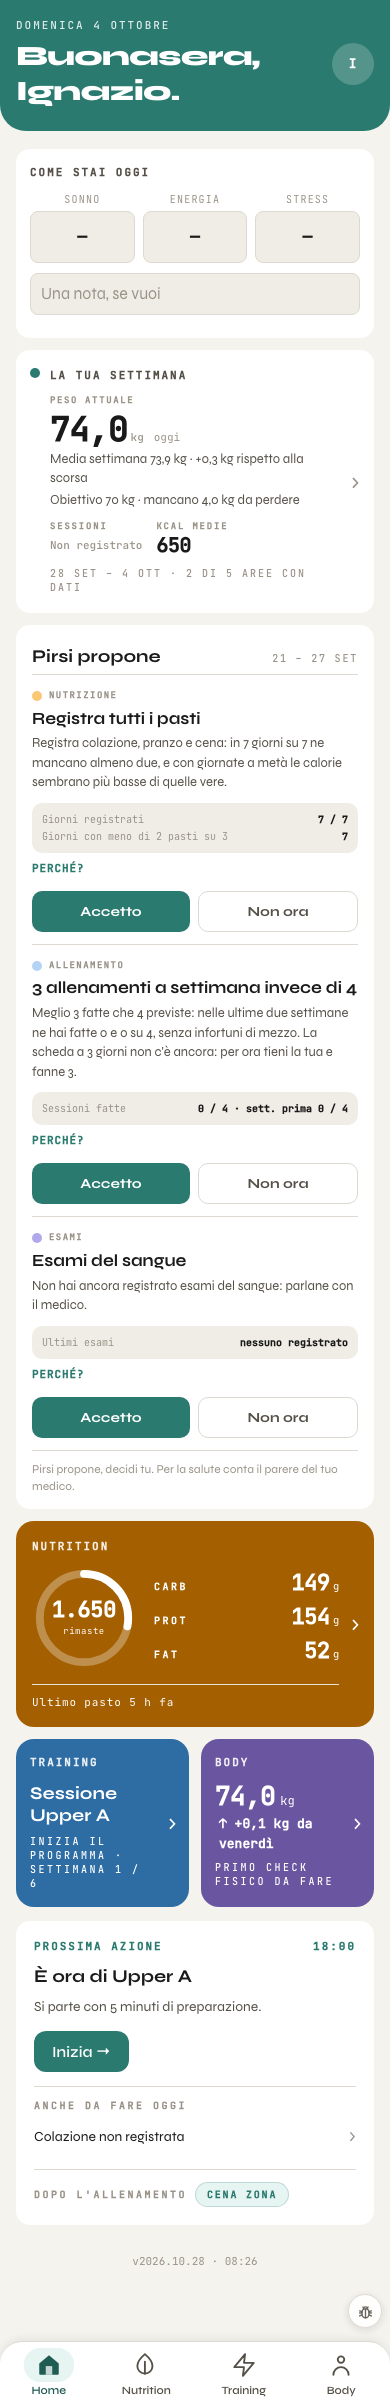
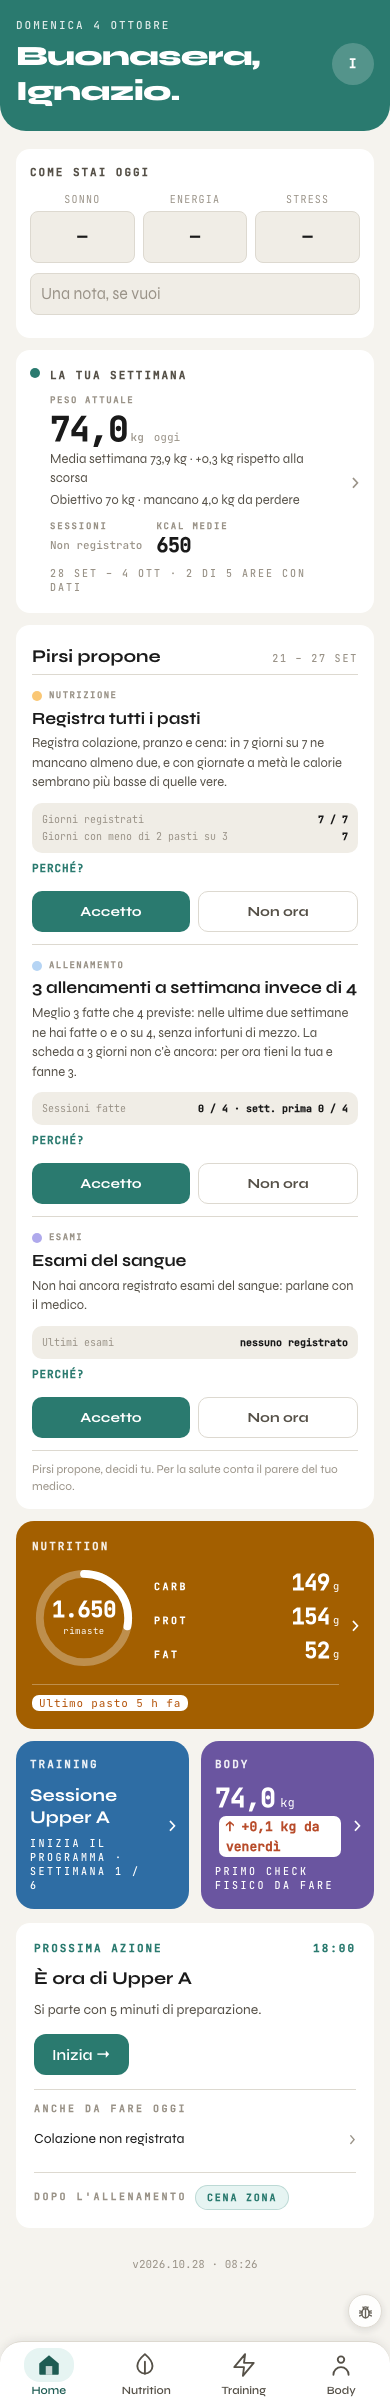
fix(stile): veste A, i colori degli stati restano leggibili sui riquadri pieni; ?v5 esce dall'indirizzo (+70 -25, 7 file)
Dalla revisione della Regia sulla veste accesa:
1-2. Via la regola «* bianco !important» sui riquadri Nutrition/Training/Body:
bianchi solo i testi di base e i numeri neutri (var(--t1), var(--t3) scritti
nell'HTML); gli stati (oltre l'obiettivo OVER_COLOR, peso verso --acc o lontano
--err, stato della seduta, «Ultimo pasto N h fa») tengono il loro colore in una
pastiglia bianca (da 5,02:1 a 5,12:1); «+ pesata di oggi» e «Registra» restano
come sono; l'anello oltre l'obiettivo diventa tratteggiato.
3. Lo script in testa toglie v5 dall'indirizzo con history.replaceState, gli altri
parametri e il # restano: una ricarica non riaccende la veste spenta.
4. STILE.md e il commento in stile.css: la tavola del Passo 0 sta sul ramo
claude/giro1-seduta-disegno.

prova_veste: 32/32, con i casi oltre l'obiettivo, peso su e giu', pesata mancante,
pasto suggerito, contrasto di ogni testo dei riquadri letto in Chrome (>= 4,5:1).
prova_stile in Chrome, veste spenta: 14 schermate uguali al pixel a main (l'unico
KO, 32-body-check sotto i 200 caratteri, c'e' anche su main). Verdi:
prova_pagina_divisa, prova_home_030, prova_avvio_home, prova_ordine_caricamento,
prova_browser, prova_segnala.

diff --git a/tools/banco/prova_veste.js b/tools/banco/prova_veste.js
@@ -22,13 +22,17 @@ const base = { uso:'principale', luogo:'casa', attrezzo:'elastico', livello:'int
 const catalogo = [['EX001','Panca elastico','spinta orizzontale'], ['EX020','Rematore elastico','tirata orizzontale'], ['EX040','Squat elastico','dominante ginocchia'],
   ['EX050','Stacco rumeno elastico','dominante anca']].map(([codice, nome, pattern]) => ({ ...base, codice, nome, pattern, gruppo_target:'' }));
 const ex = (codice) => ({ codice, name: catalogo.find(c => c.codice === codice).nome, sets:3, reps:'8-12' });
-function tabelle(){
+// scenario: 'base' (pesata oggi, dentro l'obiettivo) · 'su' (oltre l'obiettivo, peso che sale via dall'obiettivo, niente pesata oggi)
+// · 'giu' (peso che scende verso l'obiettivo, niente pesata oggi)
+function tabelle(scenario = 'base'){
   const meals = [], pesi = [];
   for(let d = 0; d < 14; d++){
     const k = add(OGGI, -d);
-    meals.push({ id:'m' + d, user_id:U, date:k, slot:'pranzo', time:'13:00', kcal:650, protein:42, carbs:70, fat:20, description:'Riso e pollo', notes:'' });
-    if(d % 2 === 0) pesi.push({ id:'p' + d, user_id:U, date:k, weight_kg: +(74 - d * 0.05).toFixed(2), created_at:k + 'T07:30:00Z' });
+    const tanto = scenario === 'su' && d === 0;
+    meals.push({ id:'m' + d, user_id:U, date:k, slot:'pranzo', time:'13:00', kcal: tanto ? 3100 : 650, protein: tanto ? 240 : 42, carbs: tanto ? 330 : 70, fat: tanto ? 110 : 20, description:'Riso e pollo', notes:'' });
+    if(scenario === 'base' && d % 2 === 0) pesi.push({ id:'p' + d, user_id:U, date:k, weight_kg: +(74 - d * 0.05).toFixed(2), created_at:k + 'T07:30:00Z' });
   }
+  if(scenario !== 'base') [[1, scenario === 'su' ? 74.6 : 73.4], [3, 74.0]].forEach(([d, kg]) => pesi.push({ id:'p' + d, user_id:U, date:add(OGGI, -d), weight_kg:kg, created_at:add(OGGI, -d) + 'T07:30:00Z' }));
   return {
     profiles:[{ id:U, first_name:'Ignazio', m2_skipped:true, sesso:'M', eta:45, altezza_cm:178, weight_kg:74, goal_weight_kg:70, obiettivo:'ricomposizione',
       target_kcal:2300, target_protein:170, target_carbs:220, target_fat:75, giorni_allenamento:4, tipo_allenamento:'casa', attrezzatura:['elastico'],
@@ -42,7 +46,7 @@ function tabelle(){
   };
 }
 async function apri(opts){
-  const t = tabelle(); t.__sessione = { user:{ id:U, email:'ignazio.f@me.com' } };
+  const t = tabelle(opts.scenario); t.__sessione = { user:{ id:U, email:'ignazio.f@me.com' } };
   const b = boot(t, { now:OGGI + 'T18:00:00', ...opts, locale:{ zt_privacy_ok:'x', zt_installa_visto:'1', ...(opts.locale || {}) } });
   await b.avviato;
   for(let i = 0; i < 500 && !b.win.document.getElementById('app').classList.contains('visible'); i++) await attendi(10);
@@ -78,8 +82,9 @@ function fotografa(win){
   { const b = await apri({ locale:{ zt_v5:'1' } });
     atteso('con la chiave sul telefono parte accesa', classe(b), true);
     b.win.close(); }
-  { const b = await apri({ url:'https://ignaziof321621.github.io/benessere-forma/zona-tracker.html?v5=1' });
+  { const b = await apri({ url:'https://ignaziof321621.github.io/benessere-forma/zona-tracker.html?test=0&v5=1&da=link#sezione' });
     atteso('?v5=1 la accende e la ricorda', [classe(b), chiave(b)], [true, '1']);
+    atteso('letto, ?v5 esce dall\'indirizzo e gli altri parametri e il # restano', [b.win.location.search, b.win.location.hash], ['?test=0&da=link', '#sezione']);
     b.win.close(); }
   { const b = await apri({ url:'https://ignaziof321621.github.io/benessere-forma/zona-tracker.html?v5=0', locale:{ zt_v5:'1' } });
     atteso('?v5=0 la spegne e toglie la chiave', [classe(b), chiave(b)], [false, null]);
@@ -90,34 +95,52 @@ function fotografa(win){
   if(!fs.existsSync(CHROME)){ atteso('Chrome trovato', false, true); console.log(`\n${ko} KO`); process.exit(1); }
   const radice = fs.mkdtempSync(path.join(os.tmpdir(), 'zt-veste-'));
   fs.copyFileSync(path.join(REPO, 'app', 'stile.css'), path.join(radice, 'stile.css'));
-  const b = await apri({});
-  const html = fotografa(b.win);
-  b.win.close();
+  // la pagina disegnata dal banco; per 'su' e 'giu' anche il pasto suggerito dal piano («Registra») e «Ultimo pasto N h fa»:
+  // la Home li prende dal Piano e dall'ora, qui si danno già pronti (cambia solo cosa c'è da disegnare, non come)
+  const pagine = {};
+  for(const sc of ['base', 'su', 'giu']){
+    const b = await apri({ scenario:sc });
+    if(sc !== 'base'){ b.win._nutrProssimoDalPiano = () => ({ slot:'cena', piatto:'Salmone e patate', descrizione:'Salmone e patate' }); b.win._nutrOreDallUltimo = () => 5; b.win.renderHomeV2(); }
+    pagine[sc] = fotografa(b.win);
+    b.win.close();
+  }
+  // contrasto WCAG di ogni testo dei tre riquadri pieni, col fondo vero (il primo antenato con un fondo non trasparente)
   const MISURA = `<script>addEventListener('load',()=>setTimeout(()=>{const g=(s,p)=>{const e=document.querySelector(s);return e?getComputedStyle(e)[p]:null;};
-const campi=[...document.querySelectorAll('input:not([type=checkbox]):not([type=radio]):not([type=range]):not([type=file]):not([type=hidden]),select,textarea')].map(e=>parseFloat(getComputedStyle(e).fontSize));
+const rgb=c=>{const m=c.match(/rgba?\\(([^)]+)\\)/);if(!m)return null;const v=m[1].split(',').map(Number);return {r:v[0],g:v[1],b:v[2],a:v.length>3?v[3]:1};};
+const lum=c=>{const f=x=>{x/=255;return x<=0.03928?x/12.92:Math.pow((x+0.055)/1.055,2.4);};return .2126*f(c.r)+.7152*f(c.g)+.0722*f(c.b);};
+const fondo=e=>{let bg={r:255,g:255,b:255,a:0},x=e;while(x){const c=rgb(getComputedStyle(x).backgroundColor);if(c&&c.a>0.5)return c;x=x.parentElement;}return {r:245,g:243,b:238,a:1};};
+const contrasto=e=>{const a=lum(rgb(getComputedStyle(e).color)),b=lum(fondo(e));return (Math.max(a,b)+.05)/(Math.min(a,b)+.05);};
+const W='.home-v2-card[onclick*="showPage(\\'oggi\\')"],#home-card-training,.home-v2-card[onclick*="showPage(\\'body\\')"]';
+const testi=[...document.querySelectorAll(W)].flatMap(c=>[...c.querySelectorAll('*')]).filter(e=>[...e.childNodes].some(n=>n.nodeType===3&&n.textContent.trim())&&e.offsetParent!==null);
+const tutti=testi.map(e=>({t:e.textContent.trim().slice(0,30),c:Math.round(contrasto(e)*100)/100}));
+const di=s=>{const e=document.querySelector(s);return e&&e.offsetParent!==null?Math.round(contrasto(e)*100)/100:null;};
 const r={barra:g('#bottom-nav','display'),nav:g('#nav','display'),testa:g('.home-v2-header','backgroundColor'),nutr:g('.home-v2-card[onclick*="showPage(\\'oggi\\')"]','backgroundColor'),
 train:g('#home-card-training','backgroundColor'),body:g('.home-v2-card[onclick*="showPage(\\'body\\')"]','backgroundColor'),
 voce:g('#bottom-nav .nav-btn.active','color'),spenta:g('#bottom-nav .nav-btn:not(.active)','color'),insetto:g('#segnala','bottom'),
-campi:campi.length,sotto16:campi.filter(x=>x<16).length,trainW:(document.querySelector('#home-card-training')||{}).offsetWidth||0,riga:(document.querySelector('.home-v2-wrap')||{}).offsetWidth||0,largo:document.documentElement.scrollWidth,finestra:window.innerWidth};
+campi:[...document.querySelectorAll('input:not([type=checkbox]):not([type=radio]):not([type=range]):not([type=file]):not([type=hidden]),select,textarea')].map(e=>parseFloat(getComputedStyle(e).fontSize)).filter(x=>x<16).length,
+trainW:(document.querySelector('#home-card-training')||{}).offsetWidth||0,riga:(document.querySelector('.home-v2-wrap')||{}).offsetWidth||0,largo:document.documentElement.scrollWidth,finestra:window.innerWidth,
+testi:tutti.length,peggiori:tutti.filter(x=>x.c<4.5),pesata:di('.home-v2-body-pesata'),registra:di('.home-v2-nutr-btn'),oltre:di('.home-v2-donut-num[style*="B45309"]'),
+macroOltre:document.querySelectorAll('.home-v2-macro-value[style*="B45309"]').length,macroOltreC:di('.home-v2-macro-value[style*="B45309"]'),delta:di('.home-v2-body-delta'),
+deltaColore:g('.home-v2-body-delta','color'),avviso:di('.home-v2-nutr-avviso'),oltreColore:g('.home-v2-donut-num','color'),anello:g('.home-v2-donut-svg circle + circle','strokeDasharray')};
 document.documentElement.setAttribute('data-misura',JSON.stringify(r));},300));</script>`;
-  const scrivi = (nome, v5) => {
+  const scrivi = (nome, html, v5) => {
     let h = html.replace('</body>', MISURA + '</body>');
     if(v5) h = h.replace(/<html([^>]*)>/, (m, a) => /class="/.test(a) ? m.replace('class="', 'class="v5 ') : `<html${a} class="v5">`);
     fs.writeFileSync(path.join(radice, nome + '.html'), h);
     // a 390 px dentro un riquadro: Chrome senza testa non scende sotto i 500 px di finestra
     fs.writeFileSync(path.join(radice, '_' + nome + '.html'), `<!doctype html><body style="margin:0"><iframe src="${nome}.html" style="border:0;width:390px;height:2400px"></iframe>`);
   };
-  scrivi('spenta', false); scrivi('accesa', true);
+  scrivi('spenta', pagine.base, false); scrivi('accesa', pagine.base, true); scrivi('accesa_su', pagine.su, true); scrivi('accesa_giu', pagine.giu, true);
   const chrome = (args) => new Promise(ok => execFile(CHROME, ['--headless=new', '--disable-gpu', '--hide-scrollbars', '--virtual-time-budget=6000', ...args],
     { maxBuffer: 64 * 1024 * 1024, timeout: 90000 }, (err, out) => ok(String(out || ''))));
   const misura = async (nome) => {
     const m = (await chrome(['--window-size=390,2400', '--dump-dom', 'file://' + path.join(radice, nome + '.html')])).match(/data-misura="([^"]*)"/);
-    return m ? JSON.parse(m[1].replace(/&quot;/g, '"')) : null;
+    return m ? JSON.parse(m[1].replace(/&quot;/g, '"').replace(/&amp;/g, '&')) : null;
   };
   try {
-    const s = await misura('spenta'), a = await misura('accesa');
-    atteso('Chrome ha risposto per le due versioni', [!!s, !!a], [true, true]);
-    if(s && a){
+    const s = await misura('spenta'), a = await misura('accesa'), su = await misura('accesa_su'), giu = await misura('accesa_giu');
+    atteso('Chrome ha risposto per le quattro pagine', [!!s, !!a, !!su, !!giu], [true, true, true, true]);
+    if(s && a && su && giu){
       atteso('spenta: niente testata colorata (la Home di prima)', s.testa, 'rgba(0, 0, 0, 0)');
       atteso('accesa: la barra in basso c\'è, quella in alto no', [a.barra, a.nav], ['flex', 'none']);
       atteso('accesa: testata della zona Home (--z-home #2A7A6F)', a.testa, 'rgb(42, 122, 111)');
@@ -125,12 +148,23 @@ document.documentElement.setAttribute('data-misura',JSON.stringify(r));},300));<
       atteso('accesa: voce aperta della barra nello scuro di Home, le altre in --t2', [a.voce, a.spenta], ['rgb(31, 92, 83)', 'rgb(85, 80, 71)']);
       atteso('accesa: Training e Body affiancati (metà riga ciascuno)', a.trainW > a.riga * 0.4 && a.trainW < a.riga * 0.55, true);
       atteso('accesa: nessuno scorrimento in orizzontale', a.largo <= a.finestra, true);
-      atteso(`accesa: tutti i ${a.campi} campi della pagina a 16 px o più (spenta: ${s.sotto16} sotto i 16)`, a.sotto16, 0);
+      atteso(`accesa: nessun campo sotto i 16 px (spenta: ${s.campi})`, a.campi, 0);
       atteso('accesa: l\'insetto del feedback sopra la barra (72 px dal fondo)', a.insetto, '72px');
+      for(const [nome, m] of [['dentro l\'obiettivo', a], ['oltre l\'obiettivo, peso su', su], ['peso giù', giu]])
+        atteso(`accesa, ${nome}: ogni testo dei riquadri pieni almeno 4,5:1 (${m.testi} testi)`, m.peggiori, []);
+      atteso('pesata mancante: «+ pesata di oggi» leggibile (≥ 4,5:1)', su.pesata >= 4.5, true);
+      atteso('pasto suggerito: «Registra» leggibile (≥ 4,5:1)', su.registra >= 4.5, true);
+      atteso('oltre l\'obiettivo: kcal nel colore «oltre» (--over), leggibile', [su.oltreColore, su.oltre >= 4.5], ['rgb(180, 83, 9)', true]);
+      atteso('oltre l\'obiettivo: i macro oltre nel colore «oltre», leggibili', [su.macroOltre > 0, su.macroOltreC >= 4.5], [true, true]);
+      atteso('oltre l\'obiettivo: l\'anello pieno diventa tratteggiato', su.anello, '5px, 4px');
+      atteso('dentro l\'obiettivo: il numero delle kcal resta bianco, l\'anello non è tratteggiato', [a.oltreColore, a.anello !== '5px, 4px'], ['rgb(255, 255, 255)', true]);
+      atteso('peso che sale via dall\'obiettivo: rosso (--err), leggibile', [su.deltaColore, su.delta >= 4.5], ['rgb(184, 76, 42)', true]);
+      atteso('peso che scende verso l\'obiettivo: verde (--acc), leggibile', [giu.deltaColore, giu.delta >= 4.5], ['rgb(42, 122, 111)', true]);
+      atteso('«Ultimo pasto N h fa» nel colore «oltre», leggibile', su.avviso >= 4.5, true);
     }
     if(process.env.FOTO){
       fs.mkdirSync(process.env.FOTO, { recursive:true });
-      for(const n of ['spenta', 'accesa']){
+      for(const n of ['spenta', 'accesa', 'accesa_su', 'accesa_giu']){
         const f = path.join(process.env.FOTO, `home_${n}_390.png`);
         await chrome(['--window-size=600,2400', '--screenshot=' + f, 'file://' + path.join(radice, '_' + n + '.html')]);
         console.log('  foto  ' + f);

diff --git a/app/stile.css b/app/stile.css
@@ -2609,7 +2609,7 @@ button.meal-edit-btn.meal-modifica:active{background:var(--acc-lt);}
 
 /* ── La veste nuova, Giro 1 (Passo 0, scelte di Ignazio del 29/10/2026: veste A, campi a 16 px, barra in basso) ──
    Tutto sotto html.v5, l'interruttore (?v5=1 o Impostazioni › Crediti, ricordato in zt_v5): spenta, l'app è quella di prima.
-   Solo l'aspetto: cosa fa la pagina, i tasti e i passaggi restano quelli di adesso. Disegno in docs/prototipi/passo0/. */
+   Solo l'aspetto: cosa fa la pagina, i tasti e i passaggi restano quelli di adesso. Disegno: la tavola del Passo 0 sul ramo claude/giro1-seduta-disegno (docs/prototipi/passo0/). */
 /* la barra in basso a ogni larghezza; la voce aperta prende il velo e la scritta scura della sua zona, le altre in --t2 */
 html.v5 #nav{display:none!important;}
 html.v5 #bottom-nav{display:flex!important;border-top-color:var(--s3);border-radius:22px 22px 0 0;}
@@ -2647,11 +2647,22 @@ html.v5 :is(.home-v2-card[onclick*="showPage('oggi')"],#home-card-training,.home
 html.v5 .home-v2-card[onclick*="showPage('oggi')"]{background:var(--z-nutrition);}
 html.v5 #home-card-training{background:var(--z-training);}
 html.v5 .home-v2-card[onclick*="showPage('body')"]{background:var(--z-body);}
-html.v5 :is(.home-v2-card[onclick*="showPage('oggi')"],#home-card-training,.home-v2-card[onclick*="showPage('body')"]) *{color:var(--z-testo)!important;}
 html.v5 :is(.home-v2-card[onclick*="showPage('oggi')"],#home-card-training,.home-v2-card[onclick*="showPage('body')"]) .home-v2-card-dot{display:none;}
 html.v5 :is(.home-v2-card[onclick*="showPage('oggi')"],#home-card-training,.home-v2-card[onclick*="showPage('body')"]) .home-v2-card-title{padding-left:0;opacity:.9;}
-html.v5 .home-v2-card[onclick*="showPage('oggi')"] .home-v2-donut-svg circle{stroke:rgba(var(--bianco-rgb),.3);}
-html.v5 .home-v2-card[onclick*="showPage('oggi')"] .home-v2-donut-svg circle + circle{stroke:var(--z-testo);}
+/* sul fondo pieno il testo di base è bianco: titoli, etichette, numeri neutri (anche quelli col colore scritto nell'HTML, var(--t1) e var(--t3)) */
+html.v5 :is(.home-v2-card[onclick*="showPage('oggi')"],#home-card-training,.home-v2-card[onclick*="showPage('body')"]) :is(.home-v2-card-title,.home-v2-card-arrow,.home-v2-donut-sub,.home-v2-macro-label,.home-v2-macro-unit,.home-v2-nutr-riga,.home-v2-nutr-eb,.home-v2-train-name,.home-v2-train-sub,.home-v2-body-weight,.home-v2-body-unit,.home-v2-body-sub){color:var(--z-testo)!important;}
+html.v5 :is(.home-v2-card[onclick*="showPage('oggi')"],#home-card-training,.home-v2-card[onclick*="showPage('body')"]) :is([style*="color:var(--t1)"],[style*="color:var(--t3)"]){color:var(--z-testo)!important;}
+html.v5 :is(.home-v2-card[onclick*="showPage('oggi')"],#home-card-training,.home-v2-card[onclick*="showPage('body')"]) .home-v2-nutr-extra{border-top-color:rgba(var(--bianco-rgb),.3);}
+/* gli stati tengono il loro colore, dentro una pastiglia bianca che lo rende leggibile sul pieno (da 5,02:1 a 5,12:1):
+   oltre l'obiettivo (OVER_COLOR, scritto nell'HTML come #B45309), il peso verso l'obiettivo (--acc) o lontano (--err), lo stato della seduta, «Ultimo pasto N h fa» */
+html.v5 :is(.home-v2-card[onclick*="showPage('oggi')"],#home-card-training,.home-v2-card[onclick*="showPage('body')"]) :is([style*="B45309"],.home-v2-body-delta[style*="var(--acc)"],.home-v2-body-delta[style*="var(--err)"],#home-card-training-stato,.home-v2-nutr-avviso){display:inline-block;width:fit-content;padding:1px 7px;border-radius:7px;background:var(--bianco);}
+html.v5 :is(.home-v2-card[onclick*="showPage('oggi')"],#home-card-training,.home-v2-card[onclick*="showPage('body')"]) [style*="B45309"],html.v5 :is(.home-v2-card[onclick*="showPage('oggi')"],#home-card-training,.home-v2-card[onclick*="showPage('body')"]) .home-v2-nutr-avviso{color:var(--over)!important;}
+html.v5 :is(.home-v2-card[onclick*="showPage('oggi')"],#home-card-training,.home-v2-card[onclick*="showPage('body')"]) #home-card-training-stato{color:var(--acc)!important;margin-top:6px;}
+/* i tasti a fondo chiaro («+ pesata di oggi», «Registra») restano come sono: nessuna regola li tocca */
+/* l'anello: il binario e l'avanzamento in bianco; oltre l'obiettivo l'anello pieno diventa tratteggiato, e il numero sta nella pastiglia */
+html.v5 .home-v2-card[onclick*="showPage('oggi')"] .home-v2-donut-svg circle[stroke="var(--s3)"]{stroke:rgba(var(--bianco-rgb),.3);}
+html.v5 .home-v2-card[onclick*="showPage('oggi')"] .home-v2-donut-svg circle[stroke="var(--acc)"]{stroke:var(--z-testo);}
+html.v5 .home-v2-card[onclick*="showPage('oggi')"] .home-v2-donut-svg circle[stroke*="B45309"]{stroke:var(--z-testo);stroke-dasharray:5 4;}
 /* Training e Body affiancati, come due widget piccoli (solo quando ci sono tutti e due) */
 html.v5 #home-card-training:has(+ .home-v2-card[onclick*="showPage('body')"]),html.v5 #home-card-training + .home-v2-card[onclick*="showPage('body')"]{width:calc(50% - 6px);align-items:flex-start;padding:16px 12px 16px 14px;}
 html.v5 #home-card-training + .home-v2-card[onclick*="showPage('body')"] .home-v2-body-line{flex-wrap:wrap;}

diff --git a/zona-tracker.html b/zona-tracker.html
@@ -21,8 +21,8 @@
 
 <link rel="stylesheet" href="app/stile.css?v=20261028-0826"/>
 <!-- La veste nuova, Giro 1 (Passo 0, Ignazio 29/10/2026): html.v5 la accende, spenta l'app è quella di prima. Si accende con ?v5=1 (?v5=0 la spegne)
-     o dall'interruttore in Impostazioni › Crediti, e resta sul telefono (zt_v5). Qui, prima del disegno, così la pagina non cambia veste sotto gli occhi -->
-<script>(function(){try{var q=new URLSearchParams(location.search).get('v5');if(q==='1')localStorage.setItem('zt_v5','1');if(q==='0')localStorage.removeItem('zt_v5');if(localStorage.getItem('zt_v5')==='1')document.documentElement.classList.add('v5');}catch(e){}})();</script>
+     o dall'interruttore in Impostazioni › Crediti, e resta sul telefono (zt_v5); letto, ?v5 esce dall'indirizzo (gli altri parametri, ?code= e #access_token compresi, restano), così una ricarica non la riaccende. Qui, prima del disegno, così la pagina non cambia veste sotto gli occhi -->
+<script>(function(){try{var q=new URLSearchParams(location.search).get('v5');if(q==='1')localStorage.setItem('zt_v5','1');if(q==='0')localStorage.removeItem('zt_v5');if(q!==null){var u=new URL(location.href);u.searchParams.delete('v5');history.replaceState(history.state,'',u.pathname+u.search+u.hash);}if(localStorage.getItem('zt_v5')==='1')document.documentElement.classList.add('v5');}catch(e){}})();</script>
 </head>
 <body>
 

diff --git a/docs/STILE.md b/docs/STILE.md
@@ -85,7 +85,7 @@ Erano scritti a mano dentro le regole. I valori sono **identici a prima**, uno p
 
 ## La veste nuova (Giro 1, dal 29 ottobre 2026)
 
-Scelte di Ignazio sul Passo 0 (tavola in [`docs/prototipi/passo0/`](prototipi/passo0/index.html)): **veste A**, colori pieni con le scritte bianche; **campi di testo a 16 px**; si costruisce dietro un interruttore, una pagina alla volta.
+Scelte di Ignazio sul Passo 0 (tavola in `docs/prototipi/passo0/` sul ramo `claude/giro1-seduta-disegno`, con il disegno della Seduta in `docs/prototipi/giro1_seduta/`): **veste A**, colori pieni con le scritte bianche; **campi di testo a 16 px**; si costruisce dietro un interruttore, una pagina alla volta.
 
 - **L'interruttore è la classe `v5` su `<html>`.** La mette lo script in testa a `zona-tracker.html` se sul telefono c'è `zt_v5 = 1`; `?v5=1` nell'indirizzo la accende e la ricorda, `?v5=0` la spegne; in Impostazioni › Crediti c'è «Veste nuova» (`vesteNuova()`). Spenta, l'app è quella di prima al pixel.
 - **Ogni regola della veste comincia con `html.v5`** (l'interruttore delle Impostazioni con `.set-veste`). `prova_stile.js` le mette da parte e vuole tutto il resto uguale a prima; `prova_veste.js` prova l'interruttore e, in Chrome, la Home accesa (`FOTO=` tiene le foto a 390 px).
